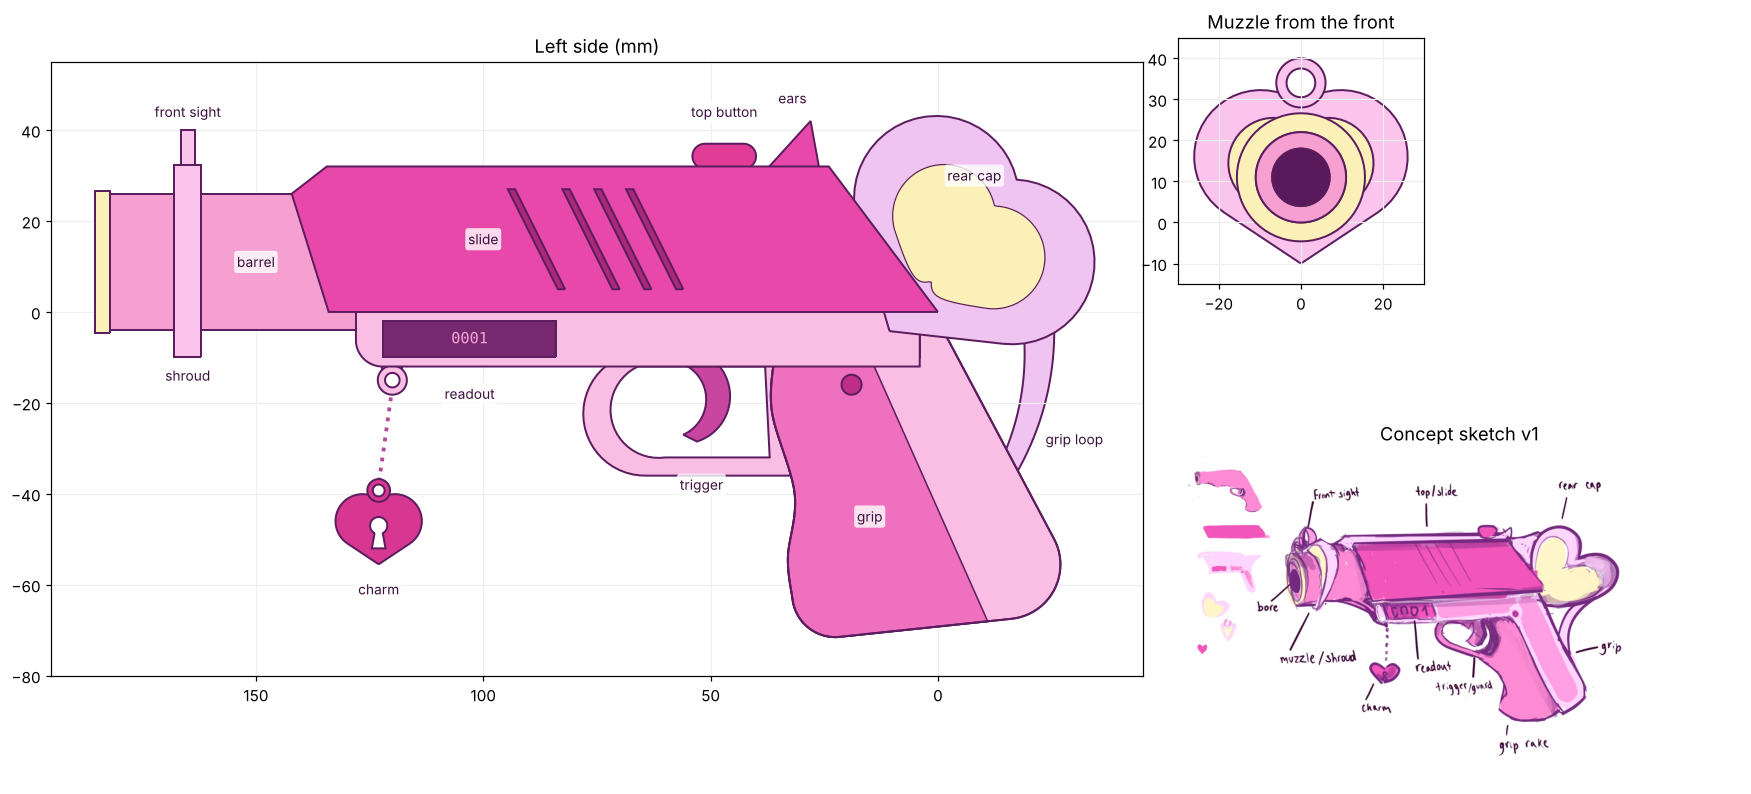
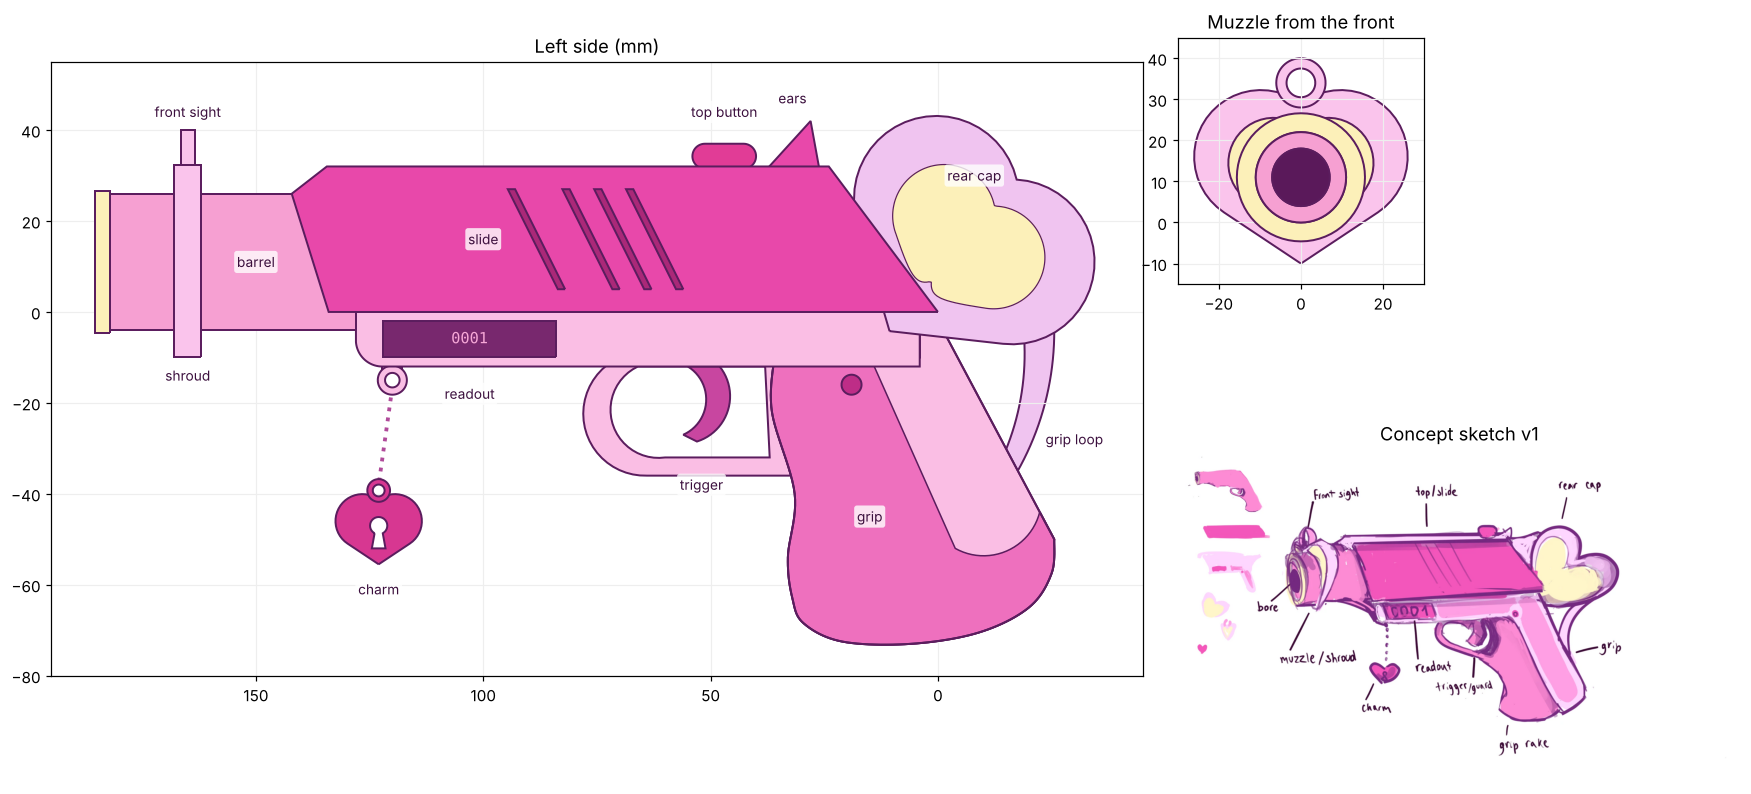
Round grip base; light pink back piece ends higher on the dark base
- Grip front edge and base are one smooth curve (GRIP_BASE points), with a
  bigger 8 mm edge rounding, so the bottom is round instead of flat.
- The colour seam now curves out through the back of the grip above the
  base: the light-pink back piece stops higher in a rounded end and sits
  flush on the dark panel, which wraps the whole base.

Claude-Session: https://claude.ai/code/session_01RDHdy5xfTrUfMAq7GtHoaE

Changed region(s): [[0.4626, 0.665, 0.6168, 0.8161]]

diff --git a/Fusion/Scripts/CelestiaGunMouse/CelestiaGunMouse.py b/Fusion/Scripts/CelestiaGunMouse/CelestiaGunMouse.py
@@ -97,10 +97,15 @@ SPINE_FRONT_TOP_X = 14.0    # colour seam (light/dark) at the frame bottom
 SPINE_FRONT_RAKE = 24.0
 # Front edge of the panel: a smooth curve through these points, top to bottom
 PANEL_FRONT = [(36.0, -10.0), (36.5, -22.0), (31.5, -40.0), (33.0, -54.0), (32.0, -63.0)]
-PANEL_TOE_MID = (29.0, -69.0)   # rounded bottom-front corner
-PANEL_BOTTOM = (22.0, -71.5)    # where the flat base starts
-GRIP_BASE_TILT_DEG = 6.0        # base rises this much toward the back
-GRIP_HEEL_R = 12.0              # rounding of the bottom-back corner
+# Round base: the curve carries on from the front edge through these points,
+# front to back, and finishes on the back edge at GRIP_BASE_END_Y.
+GRIP_BASE = [(29.5, -68.5), (21.0, -72.5), (6.0, -73.0), (-9.0, -70.5), (-20.0, -65.0), (-25.0, -57.5)]
+GRIP_BASE_END_Y = -50.0
+# The light-pink back piece stops above the base in a rounded end; the dark
+# panel wraps the whole base. Both come from one body, so they are flush.
+SPINE_END_Y = -52.0             # where the seam leaves the front edge line
+SPINE_END_REAR_Y = -44.0        # where the rounded end meets the back edge
+SPINE_END_BULGE = 5.0           # roundness of the light pink's end
 GRIP_PIN = (19.0, -16.0)        # the little pin/screw at the top of the grip
 GRIP_PIN_R = 2.2
 
@@ -136,7 +141,7 @@ CHARM_W = 19.0
 # Fillet radii (if a fillet fails, the script skips it and tells you)
 FILLET_SLIDE = 2.0
 FILLET_FRAME = 1.5
-FILLET_GRIP = 5.0
+FILLET_GRIP = 8.0               # big, so the grip and base are round
 FILLET_GUARD = 2.0
 FILLET_SMALL = 1.0
 
@@ -381,50 +386,39 @@ def _unit(v):
     return (v[0] / n, v[1] / n)
 
 
-def round_corner(corner, a_dir, b_dir, radius):
-    """Arc of the given radius tangent to two edges leaving `corner` along
-    unit vectors a_dir and b_dir. Returns (start, mid, end) on a then b."""
-    half = math.acos(a_dir[0] * b_dir[0] + a_dir[1] * b_dir[1]) / 2.0
-    dist = radius / math.tan(half)
-    bis = _unit((a_dir[0] + b_dir[0], a_dir[1] + b_dir[1]))
-    centre_d = radius / math.sin(half)
-    t1 = (corner[0] + a_dir[0] * dist, corner[1] + a_dir[1] * dist)
-    t2 = (corner[0] + b_dir[0] * dist, corner[1] + b_dir[1] * dist)
-    mid = (corner[0] + bis[0] * (centre_d - radius), corner[1] + bis[1] * (centre_d - radius))
-    return t1, mid, t2
-
-
-def grip_heel():
-    """Rounded corner where the flat base meets the back of the grip."""
-    t = math.radians(GRIP_BASE_TILT_DEG)
-    d = (-math.cos(t), math.sin(t))                 # along the base, toward the back
-    k = math.tan(math.radians(SPINE_REAR_RAKE))     # back edge: x = SPINE_REAR_TOP_X + k*y
-    p = PANEL_BOTTOM
-    s = (SPINE_REAR_TOP_X + k * p[1] - p[0]) / (d[0] - k * d[1])
-    corner = (p[0] + s * d[0], p[1] + s * d[1])
-    return round_corner(corner, (-d[0], -d[1]), _unit((k, 1.0)), GRIP_HEEL_R)
-
-
 def grip_outline():
     """Whole grip (back piece + panel) as one outline."""
     top = -4.0
     rear_top = (spine_rear_x(top), top)
-    h1, hm, h2 = grip_heel()
+    base_end = (spine_rear_x(GRIP_BASE_END_Y), GRIP_BASE_END_Y)
     return [
         ('line', rear_top, (FRAME_REAR_X, top)),
         ('line', (FRAME_REAR_X, top), (FRAME_REAR_X, PANEL_FRONT[0][1])),
         ('line', (FRAME_REAR_X, PANEL_FRONT[0][1]), PANEL_FRONT[0]),
-        ('spline',) + tuple(PANEL_FRONT),
-        ('arc', PANEL_FRONT[-1], PANEL_TOE_MID, PANEL_BOTTOM),
-        ('line', PANEL_BOTTOM, h1),
-        ('arc', h1, hm, h2),
-        ('line', h2, rear_top),
+        # front edge and round base as one smooth curve
+        ('spline',) + tuple(PANEL_FRONT) + tuple(GRIP_BASE) + (base_end,),
+        ('line', base_end, rear_top),
     ]
 
 
+def _bulge_mid(p0, p1, bulge):
+    """Middle point for an arc from p0 to p1 that bows `bulge` mm to the
+    right of the direction p0 -> p1 (downward for a base drawn front to back)."""
+    dx, dy = p1[0] - p0[0], p1[1] - p0[1]
+    n = math.hypot(dx, dy)
+    return ((p0[0] + p1[0]) / 2 - bulge * dy / n, (p0[1] + p1[1]) / 2 + bulge * dx / n)
+
+
 def grip_seam():
-    """Line splitting the grip into the light back piece and the dark panel."""
-    return ((spine_front_x(0.0), 0.0), (spine_front_x(-85.0), -85.0))
+    """Open chain splitting the grip: down the light piece's front edge, then
+    a rounded end curving out through the back edge, above the base."""
+    top = (spine_front_x(0.0), 0.0)
+    s1 = (spine_front_x(SPINE_END_Y), SPINE_END_Y)
+    e = (spine_rear_x(SPINE_END_REAR_Y), SPINE_END_REAR_Y)
+    out = (e[0] - 12.0, e[1] + 4.0)       # carry on past the back of the grip
+    return [('line', top, s1),
+            ('arc', s1, _bulge_mid(s1, e, SPINE_END_BULGE), e),
+            ('line', e, out)]
 
 
 def guard_loops():
@@ -899,8 +893,8 @@ def split_grip(comp):
     """Split the 'Grip' body along the colour seam into 'Spine' (back) and
     'Grip panel' (front)."""
     grip = body_named(comp, 'Grip')
-    sk = side_sketch(comp, 'Grip seam', [[('line',) + grip_seam()]])
-    prof = comp.createOpenProfile(sk.sketchCurves.sketchLines.item(0), False)
+    sk = side_sketch(comp, 'Grip seam', [grip_seam()])
+    prof = comp.createOpenProfile(sk.sketchCurves.sketchLines.item(0), True)
     ext = comp.features.extrudeFeatures
     inp = ext.createInput(prof, NEW)
     inp.isSolid = False

diff --git a/Fusion/preview/preview_side.py b/Fusion/preview/preview_side.py
@@ -116,13 +116,13 @@ draw(ax, cgm.guard_loops(), C['Frame & Grip'], 2.5)
 grip = PathPatch(compound([cgm.grip_outline()]), facecolor=tuple(c / 255 for c in C['Frame & Grip']),
                  edgecolor='#5b1d5e', lw=1.3, zorder=3)
 ax.add_patch(grip)
-(s0x, s0y), (s1x, s1y) = cgm.grip_seam()
-front_of_seam = Path([(s0x, s0y), (s1x, s1y), (s1x + 120, s1y), (s0x + 120, s0y), (s0x, s0y)])
+seam_pts = loop_vertices(cgm.grip_seam())
+front_of_seam = Path(seam_pts + [(seam_pts[-1][0], -150), (250, -150), (250, seam_pts[0][1]), seam_pts[0]])
 panel = PathPatch(compound([cgm.grip_outline()]), facecolor=tuple(c / 255 for c in C['Grip panel']),
                   edgecolor='#5b1d5e', lw=1.3, zorder=3.1)
 ax.add_patch(panel)
 panel.set_clip_path(PathPatch(front_of_seam, transform=ax.transData))
-seam_line, = ax.plot([s0x, s1x], [s0y, s1y], color='#5b1d5e', lw=1.0, zorder=3.15)
+seam_line, = ax.plot([p[0] for p in seam_pts], [p[1] for p in seam_pts], color='#5b1d5e', lw=1.0, zorder=3.15)
 seam_line.set_clip_path(PathPatch(compound([cgm.grip_outline()]), transform=ax.transData))
 ax.add_patch(PathPatch(compound([cgm.grip_outline()]), fill=False, edgecolor='#5b1d5e', lw=1.3, zorder=3.2))
 draw(ax, [[('circle', cgm.GRIP_PIN, cgm.GRIP_PIN_R)]], C['Grip pin'], 3.2)
